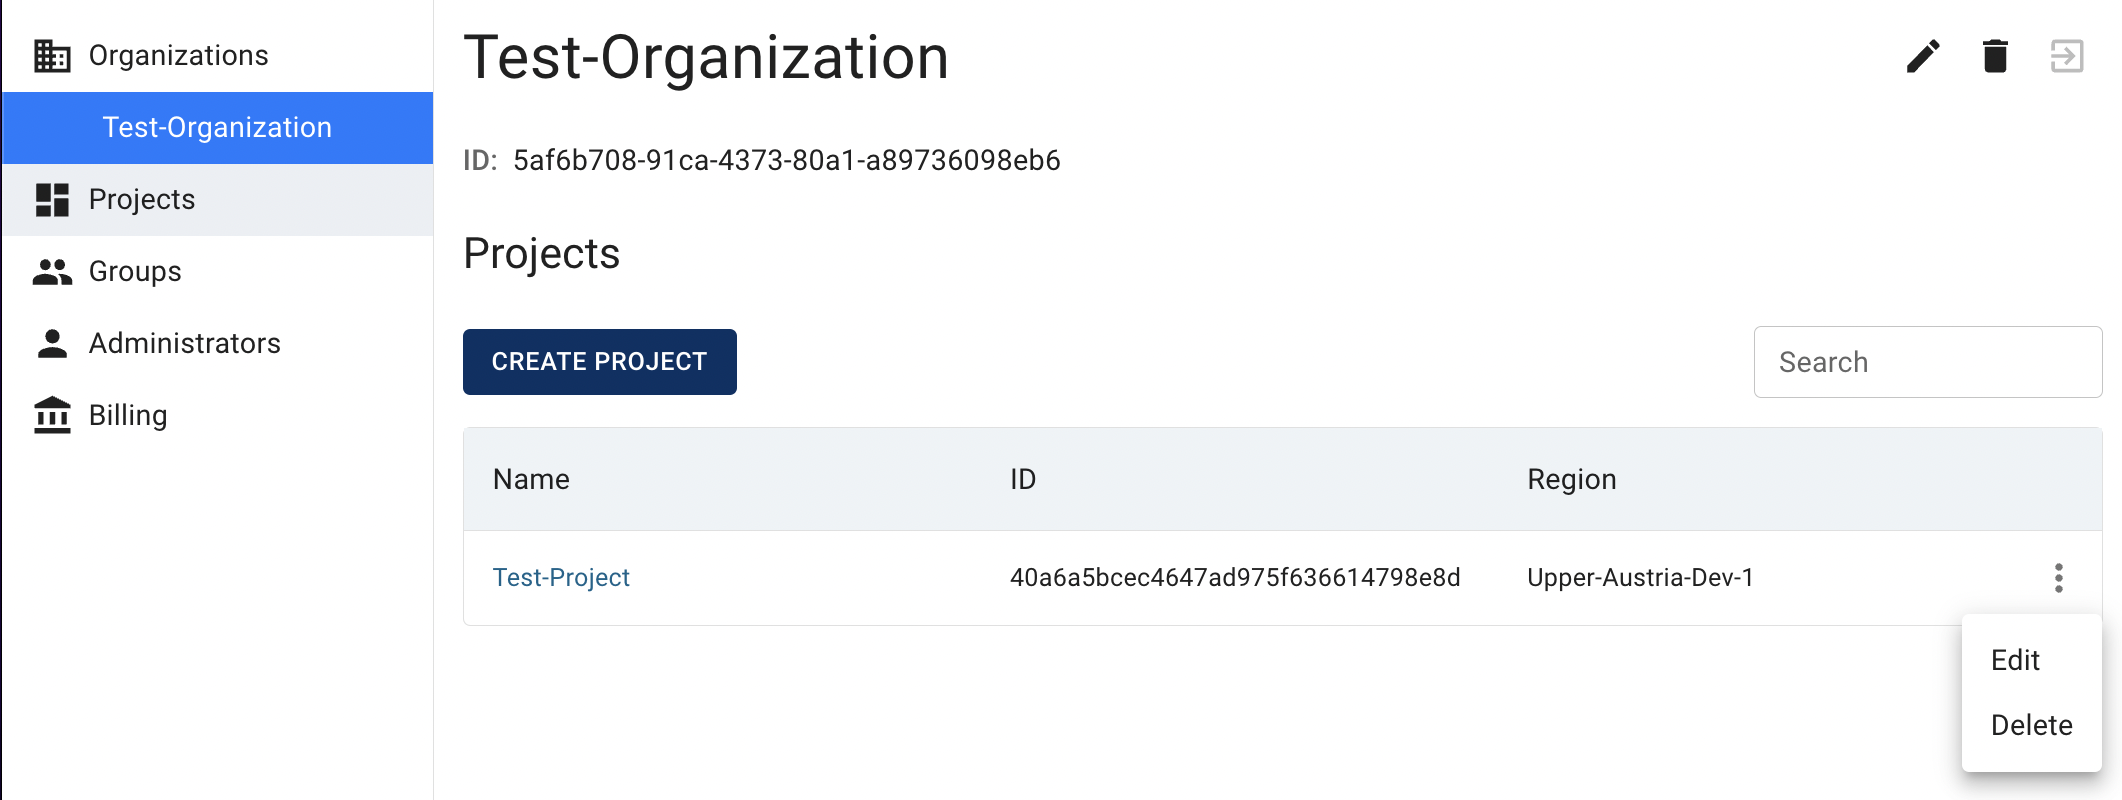
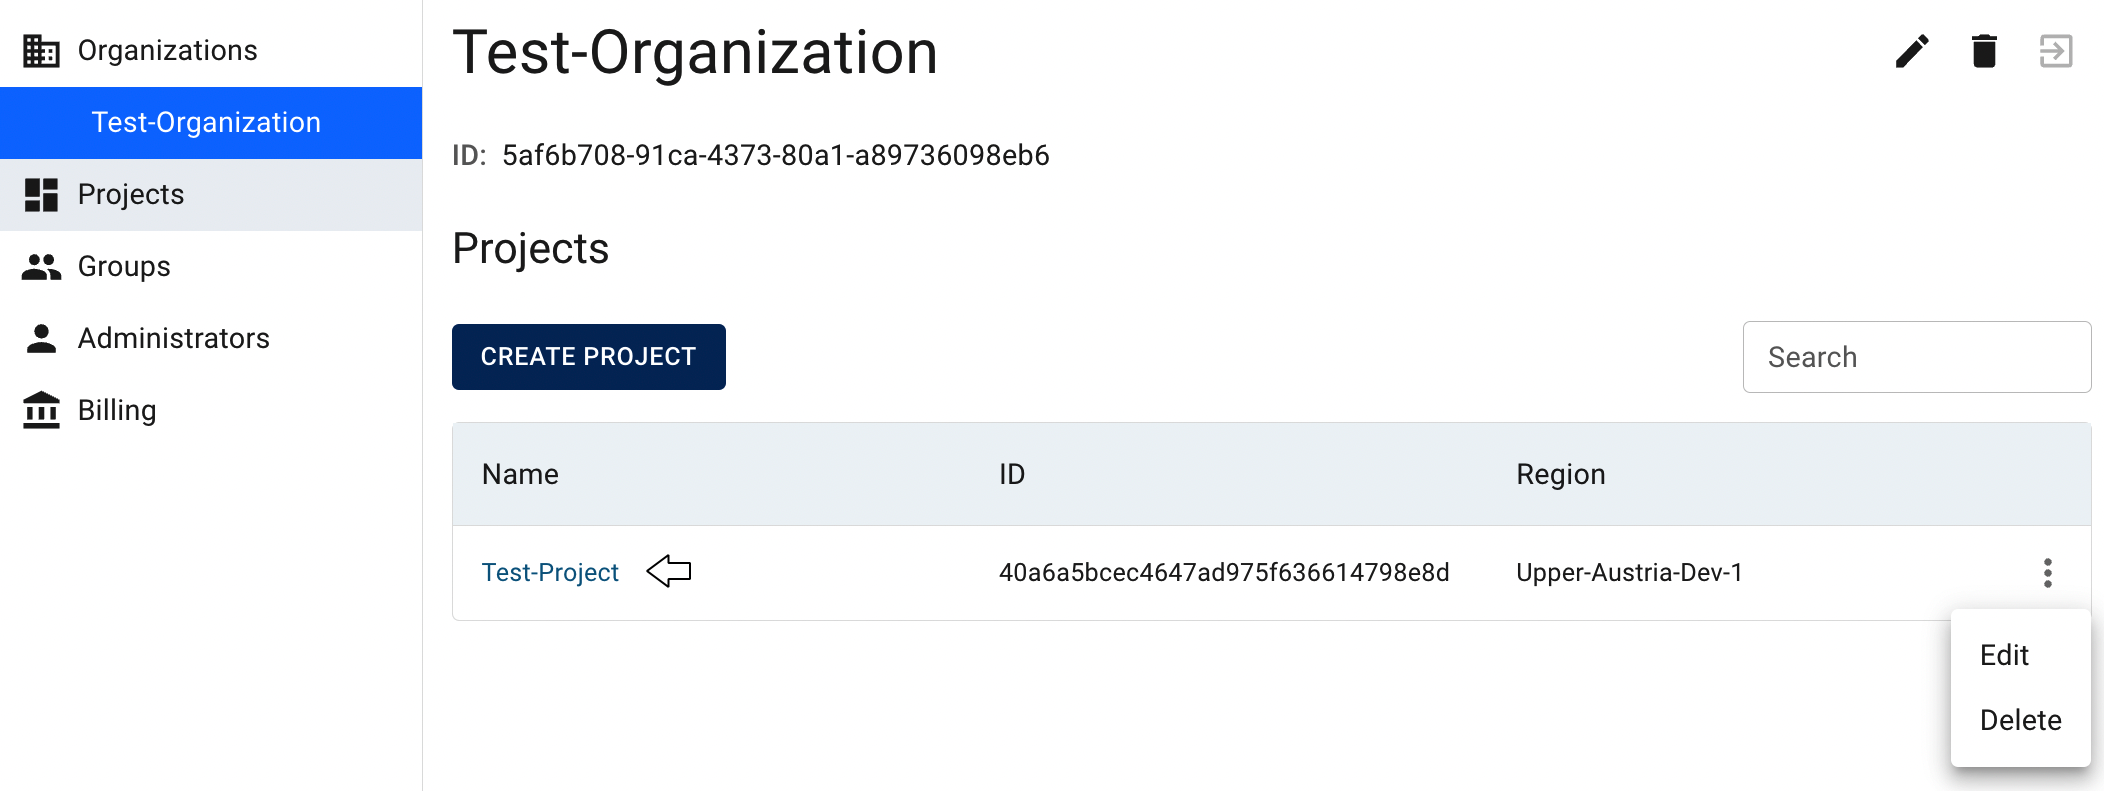
update projects and organizations articles

diff --git a/content/getting-started/projects.md b/content/getting-started/projects.md
@@ -9,6 +9,7 @@ On this page, you can find an explanation of how to create a new Project, and ho
 - [Table of contents](#table-of-contents)
   - [Projects page](#projects-page)
   - [Create Project](#create-project)
+  - [Project Overview Page](#project-overview-page)
   - [Edit Project](#edit-project)
   - [Delete Project](#delete-project)
   - [Add users to Project](#add-users-to-project)
@@ -23,12 +24,12 @@ To see information about created Projects in the Organization or create more Pro
 
 ![](../../assets/images/organizations/7.png?classes=border,shadow)  
 
-This action will open additional sections on the *side-bar menu* and redirect you to the *Projects page*, where you can find all created Projects, related to the selected Organization with the *Create button, Search bar* and *Actions icon*, which opens a list of available management actions for the selected Project:
-![](../../assets/images/projects/2.png?classes=border,shadow) 
-
-**Actions** icon opens the next list of available management actions:
+This action will open additional sections on the *side-bar menu* and redirect you to the *Projects page*, where you can find all created Projects, related to the selected Organization with the *Create button, Search bar* and *Actions icon*, which opens a list of available management actions for the selected Project:  
 - *Edit* - by selecting this option, you can change the Project name;
 - *Delete* - this option is for Project removing.
+
+Additionally, from this page, you can navigate to the overview page of each created Project by clicking on its **name**. There, you will find resource utilization graphs, quota details, and billing information for essential resources such as virtual machines, volumes, databases, and object storage. More information about the *Project overview page* will be provided in the following sections.   
+![](../../assets/images/projects/2.png?classes=border,shadow) 
 
 ## Create Project
 
@@ -40,12 +41,27 @@ To create a new Project, do the following:
 
 ![](../../assets/images/projects/4.png?width=35pc&classes=border,shadow) 
 
-After these steps, the newly created Project will be added to the *Projects Overview page:*
+After these steps, the newly created Project will be added to the *Projects page* and you can navigate to the *Project overview page* by clicking on its **name**:
 ![](../../assets/images/projects/5.png?width=70pc&classes=border,shadow) 
 
 {{% notice note %}}
 All subsequent services provided by the Cloud Console within the one Project, will be created in the corresponding Region, in which this Project was created.
 {{% /notice %}}
+
+## Project Overview Page
+To open the *Project overview page*, click on the **Name** of the appropriate Project on the *Projects page*:
+![](../../assets/images/projects/5.png?width=70pc&classes=border,shadow) 
+
+This action will redirect you to the *Project overview page*, where you can find:   
+- project **details area** with actual information about it (id, region):  
+![](../../assets/images/projects/7.png?width=30pc&classes=border,shadow)   
+
+- resource **utilization graphs** with its quota details:  
+![](../../assets/images/projects/8.png?width=35pc&classes=border,shadow) 
+
+- project **billing information** for essential resources such as virtual machines, volumes, databases, and object storage:  
+![](../../assets/images/projects/9.png?width=35pc&classes=border,shadow) 
+
 
 ## Edit Project 
 To edit the Project, do the following:
@@ -55,13 +71,24 @@ To edit the Project, do the following:
 
 After these steps, the selected Project will be updated.
 
+Also, you can edit the Project from the *Project overview page*, by clicking on the appropriative **quick actions** icon there:
+![](../../../assets/images/projects/10.png?width=25pc&classes=border,shadow)
+
 ## Delete Project 
+
+{{% notice note %}}
+Deleting a Project will permanently erase all related resources, including virtual machines, Kubernetes clusters, volumes, and other components, with no option for recovery.
+{{% /notice %}}
 
 To delete the Project, do the following:
 - identify this unnecessary Project on the *Projects page*;
 - click on the **Actions** icon  and select the **Delete** in the list of available options;
 - confirm the Project deletion on the next opened *Confirmation window*.
+
 After these steps, the selected Project will be deleted.
+
+Also, you can delete the Project from the *Project overview page*, by clicking on the appropriative **quick actions** icon there:
+![](../../../assets/images/projects/11.png?width=25pc&classes=border,shadow)
 
 ## Add users to Project
 

diff --git a/content/getting-started/organizations.md b/content/getting-started/organizations.md
@@ -36,8 +36,7 @@ If you are a new user and have just created new account, you will be automatical
 If you aren't a new User, but want to see information about created Organizations or find information about Organizations to which Projects your User has access, you need to select the **Organizations** from the *side-bar menu:* 
 ![](../../../assets/images/organizations/2.png?width=15pc&classes=border,shadow)  
 
-This action will redirect you to the *Organizations page*, where you can find all created Organizations and Organizations, to which Projects your User has access, with the *Add Organization button, Search bar* and *Actions icon* which opens a list of available management actions for the selected Organization:  
-![](../../assets/images/organizations/3.png?classes=border,shadow)  
+This action will redirect you to the *Organizations page*, where you can find all created Organizations and Organizations, to which Projects your User has access, with the *Add Organization button, Search bar* and *Actions icon* which opens a list of available management actions for the selected Organization.
 
 **Actions** icon opens the list of available management actions, which differ depending on the user's role in the Organization: 
   * **for Owners:**
@@ -46,6 +45,10 @@ This action will redirect you to the *Organizations page*, where you can find al
   * **for Administrators and Members**  
     - *Leave* - this option can be used to leave the Organization.  
 
+Additionally, from this page, you can navigate to the *Projects page* or *Administrators page* of each created Organization by clicking on its **name**. More information about this pages you can find here - [Projects page](https://docs.ventuscloud.eu/getting-started/projects/#projects-page), [Administrators page](https://docs.ventuscloud.eu/identity-management/administrators/#administrators-page).
+
+![](../../assets/images/organizations/3.png?classes=border,shadow)  
+
 ## Create Organization 
 To create a new Organization, do the following:  
 - go to the *Organizations page* and click the CREATE ORGANIZATION icon in the upper left corner;    
@@ -53,8 +56,8 @@ To create a new Organization, do the following:
 
 ![](../../assets/images/organizations/4.png?width=35pc&classes=border,shadow)  
 
-After these steps the newly created Organization will be added to the *Organizations page* and User Role there will be *Owner*:  
-![](../../assets/images/organizations/5.png?classes=border,shadow)  
+After these steps the newly created Organization will be added to the *Organizations page* with User Role *Owner* and you can navigate to its *Projects page* by clicking on Organization **name**. More information about this page you can find here - [Projects page](https://docs.ventuscloud.eu/getting-started/projects/#projects-page).  
+![](../../assets/images/organizations/5.png?classes=border,shadow)
 
 ## Edit Organization
 {{% notice note %}}
@@ -68,10 +71,13 @@ To edit the Organization, do the following:
 
 After these steps, the selected Organization will be updated.
 
+Also, you can edit the Organization from its *Projects page*, by clicking on the appropriative **quick actions** icon there:
+![](../../../assets/images/organizations/14.png?width=25pc&classes=border,shadow)
+
 ## Delete Organization
 
 {{% notice note %}}
-This action is available only if the User is a single Admin in this Organization and all Projects inside, were previously deleted.
+This action is available if User Role in this Organization is *Owner* and all Projects inside, were previously deleted.
 {{% /notice %}}
 
 To delete the Organization, do the following:
@@ -80,6 +86,9 @@ To delete the Organization, do the following:
 - confirm the Organization deletion on the next opened *Confirmation window*. 
       
 After confirming this action, the selected Organization will be deleted.
+
+Also, you can delete the Organization from its *Projects page*, by clicking on the appropriative **quick actions** icon there:
+![](../../../assets/images/organizations/15.png?width=25pc&classes=border,shadow)
 
 ## Leave Organization
 {{% notice note %}}
@@ -92,6 +101,9 @@ To leave the Organization, do the following:
 - confirm your action on the next opened *Confirmation window*. 
       
 After these steps, your User will not have access to the selected Organization.
+
+Also, you can leave the Organization from its *Projects page*, by clicking on the appropriative **quick actions** icon there:
+![](../../../assets/images/organizations/16.png?width=25pc&classes=border,shadow)
 
 ## Transfer an Organization
 {{% notice note %}}
